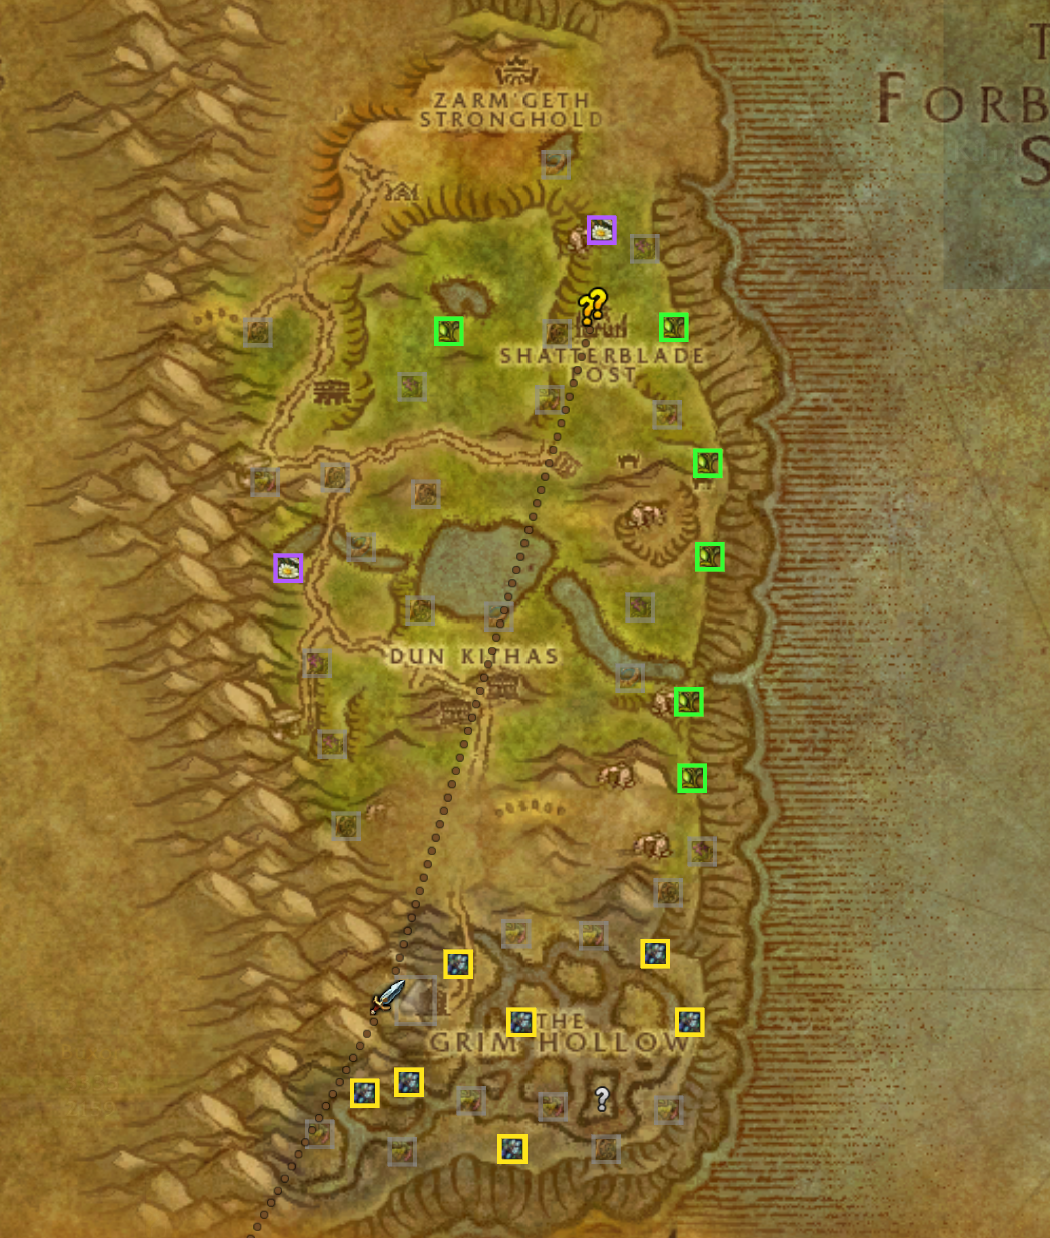
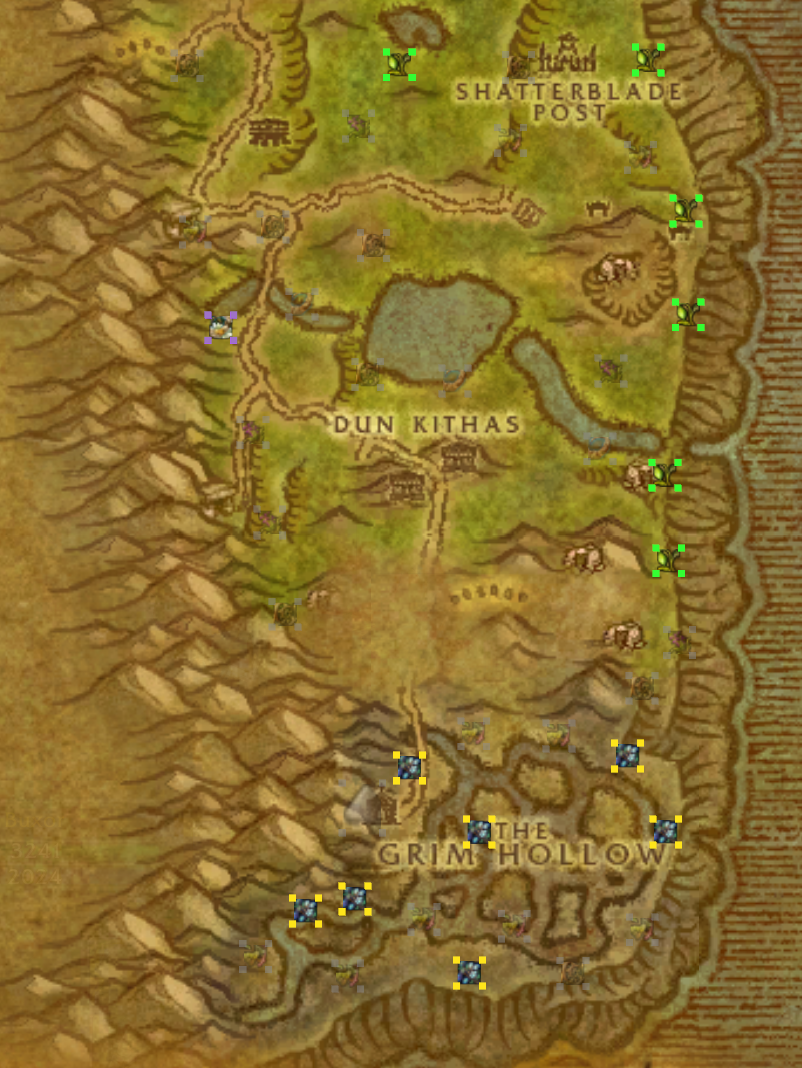
Raise gray opacity and refresh screenshots

diff --git a/README.md b/README.md
@@ -90,8 +90,9 @@ Ordinary treasure chests use the same progression idea with character level:
 red is well above your level, yellow is around your level, green is below it,
 and gray is at least ten levels below it.
 
-Gray markers use 50% opacity on both maps so low-value locations remain visible
-without overwhelming the display. All other colors use full opacity.
+Gray markers use 85% opacity on both maps so low-value locations remain
+slightly subdued without becoming difficult to see. All other colors use full
+opacity.
 
 ## Commands
 
